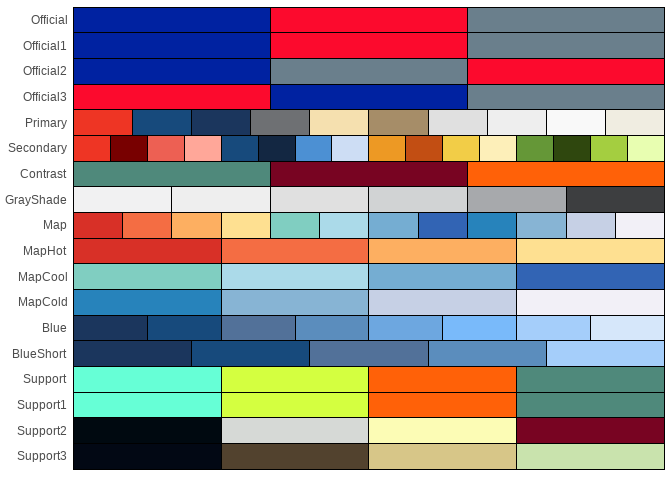
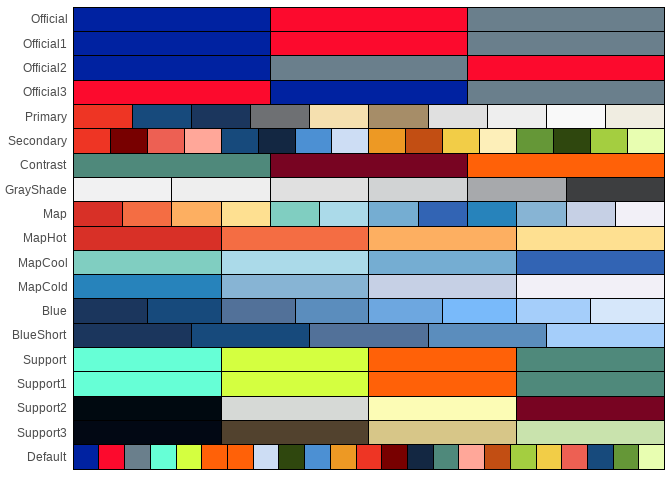
readme fix again

diff --git a/README.md b/README.md
@@ -40,11 +40,6 @@ often not available on CRAN for recent versions of R. You likely need to
 install the package from github. I recommend the
 [bschamberger](https://github.com/bschamberger/RDCOMClient) or
 [omegahat](https://github.com/bschamberger/RDCOMClient) repositories.
-
-``` r
-email_setup()
-```
-
 `email_setup()` is designed to help install RDCOMClient.
 
 ### Sending emails
@@ -153,7 +148,10 @@ tn_palette_show()
 ![](README_files/figure-commonmark/palette_show-1.png)
 
 These palettes can be used with another set of custom functions:
-`scale_fill_tn()` and `scale_color_tn()`
+`scale_fill_tn()` and `scale_color_tn()`. When the `TNTools` package is
+loaded, the default ggplot discrete palette is changed to the ‘Default’
+TN palette. This is also the default palette for the `scale_*_tn`
+functions, but other palettes can be supplied.
 
 ``` r
 flowers <- flowers +
@@ -166,12 +164,17 @@ flowers
 
 For continuous scales, use `discrete=FALSE`. This will result in colors
 on the plot which do not conform to the branding standard because
-intermediate colors are interpolated from the chosen palette.
+intermediate colors are interpolated from the chosen palette. Unlike its
+effect on discrete scales, loading `TNTools` does not change the
+continuous scale color or fill defaults.
+
+To disable or enable the TN default scale coloring, you can use
+`tn_ggplot_color_off()` and `tn_ggplot_color_on()`.
 
 ### Logos
 
-Finally, the `add_tn_logo()` function can place one of several onto a
-plot object. The logo can be specified as a string from
+Finally, the `add_tn_logo()` function can place one of several logos
+onto a plot object. The logo can be specified as a string from
 `tn_logo_names()` and the position can be on the top or bottom of the
 plot, in the left, right, or center (using the `position` parameter).
 
